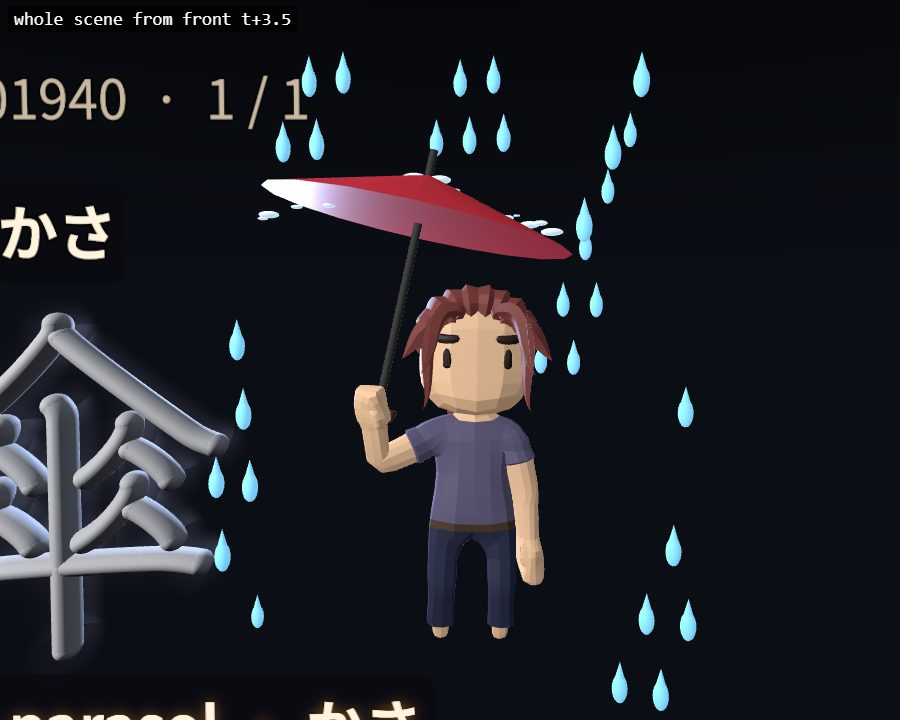
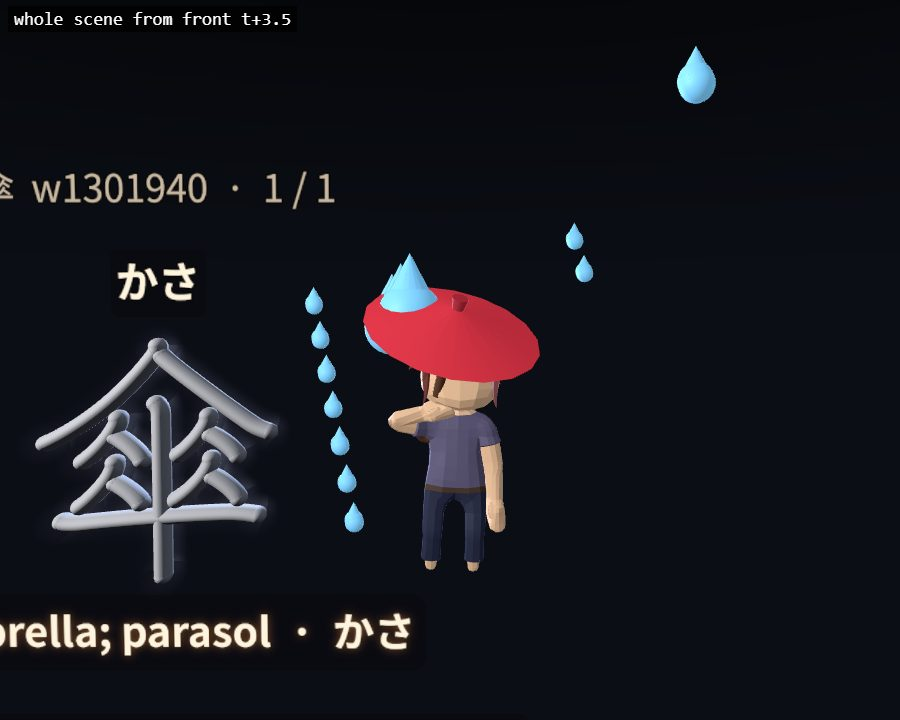
Qwen: 025-kasa-umbrella-flash round 2

diff --git a/src/effects/vignettes/q-umbrella.js b/src/effects/vignettes/q-umbrella.js
@@ -5,11 +5,13 @@
 // bounces off it - every drop over the canopy stops at its surface and pops into a splash - while she sways happily;
 // 6.4-6.9 the rain fades out; 6.9-7.4 the canopy closes; 7.4-8.0 she lowers it back to her side, so the loop ends where
 // it started.
-//   Her right hand holds the handle the whole loop: grip puts her palm against it (never inside the fist) and hold hangs
-//   the umbrella from that palm, so the two cannot drift apart. The umbrella's pivot is the point she holds; the shaft
-//   goes up past her fist to the canopy, which leans 10° over her head and 29° toward the viewer: the shaft passes in
-//   front of her head, and the canopy's rim hangs just above her crown, covering it. Her fist has the band -0.1u..+0.12u
-//   around the pivot to itself - no part of the umbrella is built in it, so the hand is against the handle, not in it.
+//   Her right hand holds the handle the whole loop (grip is live even before she lifts it, so the palm always faces up
+//   the shaft) and hold hangs the umbrella from that palm, so the two cannot drift apart. The umbrella's pivot is the
+//   point she holds; the shaft goes up past her fist to the canopy, which leans 10° over her head and 29° toward the
+//   viewer: the shaft passes in front of her head, and the canopy's rim hangs just above her crown, covering it. Her
+//   fist owns the band -0.017u..-0.084u along the shaft round the pivot (its palm presses on the band's near face):
+//   the crook hangs off the band's far side and the wooden grip starts on the shaft's side, so no part of the umbrella
+//   is ever inside the hand it holds.
 import * as THREE from 'three';
 import { acts, timeline, lerp } from './timeline.js';
 import { actor } from './model-kit.js';
@@ -24,16 +26,17 @@ const K = 1.7;                                // the drops are drawn a little bi
 const FALL = 0.5;                             // a drop falls 1.5u in 0.5 s (a fall time that divides the loop)
 const SPEED = 1.5 / FALL;                     // u per second
 // the umbrella in its own frame: the pivot is the point her palm holds, the shaft runs up +y to the canopy. Her fist
-// has the band -0.1u..+0.12u around the pivot to itself, so no part of the umbrella is ever inside her hand.
-const GRIP = 0.021, HOOK = -0.06, SHAFT = 0.20, TOP = 0.35, CAN = 0.33, CR = 0.30, CH = 0.09;
+// owns the band -0.017u..-0.084u along the shaft, so the handle is built outside it: the grip at +0.02..+0.13, the
+// crook's ring centred at -0.145, just clear of the fist's skin.
+const GRIP = 0.017, HOOK = -0.145, SHAFT = 0.20, TOP = 0.35, CAN = 0.33, CR = 0.30, CH = 0.09;
 // where she holds it up: heights above her feet, a little to her right, a little toward the viewer (all reachable)
 const HOLD = [-0.033, 0.69, 0.05];
 const rnd = (i, k) => ((i * 7919 + k * 104729) % 997) / 997;   // a fixed number per drop (pure, no Math.random)
 
 function umbrella(u) {
   const g = new THREE.Group(); g.name = 'umbrella';
-  const handle = solidProp([[G.torus(CR * 0.11 * u, GRIP * 0.85 * u, Math.PI, 0, HOOK * u, 0, Math.PI), 0x4a2a18],  // the crook in her palm
-    [G.cyl(GRIP * u, GRIP * u, 0.08 * u, 0, (HOOK + 0.045) * u, 0), 0x5a3620]], 0.3);
+  const handle = solidProp([[G.torus(0.035 * u, 0.012 * u, Math.PI, 0, HOOK * u, 0, Math.PI), 0x4a2a18],  // the crook past her fist
+    [G.cyl(GRIP * u, GRIP * u, 0.11 * u, 0, 0.075 * u, 0), 0x5a3620]], 0.3);   // the wooden grip, from the fist up to the shaft
   const shaft = solidProp([[G.cyl(GRIP * 0.7 * u, GRIP * 0.7 * u, SHAFT * u, 0, 0.23 * u, 0), 0x30363e],
     [G.cyl(GRIP * 1.25 * u, GRIP * 1.25 * u, 0.045 * u, 0, 0.15 * u, 0), 0x24292f],
     [G.cone(GRIP * 0.8 * u, 0.07 * u, 0, TOP * u, 0), 0x9aa4b4]], 0.25);   // the ferrule: its tip near the floor when it hangs
@@ -70,12 +73,12 @@ function umbrellaScene(ctx, spec, stage) {
       // the point her hand holds: her idle fist -> the point over her head, on the timeline (never on where the
       // umbrella ended up last frame, so the hand and the umbrella cannot drift away from each other)
       const P = who.fist('R', W).lerp(who.local(HOLD[0], HOLD[1], HOLD[2], W2), e);
-      umb.rotation.set(0.5 * e, 0, Math.PI + 0.75 * (1 - e) + e * (Math.PI - 0.17));   // hung out at her side -> swung out
+      umb.rotation.set(0.5 * e - 0.72 * (1 - e), 0, (Math.PI + 0.06) + e * (Math.PI - 0.23));   // hangs down in front of her feet -> swung up over her head
       canopy.scale.set(0.10 + 0.90 * open, 1 + 1.2 * (1 - open), 0.10 + 0.90 * open);
       canopy.position.y = lerp(0.24, CAN, open) * u;                          // closed it hangs along the shaft as a bundle
       who.group.updateWorldMatrix(true, true);
       const toward = W3.set(0, 1, 0).applyEuler(umb.rotation);                 // up the shaft: the palm presses against it
-      who.grip('R', P, toward, GRIP * u, e, { out: 0.75, down: 0.4 });
+      who.grip('R', P, toward, GRIP * u, 1, { out: 0.75, down: 0.4 });
       who.hold(umb, 'R', who.group, GRIP * u);
       who.group.updateWorldMatrix(true, true);
       // the rain: straight down; over the open canopy a drop stops at its surface and pops into a splash
